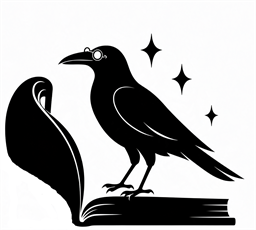
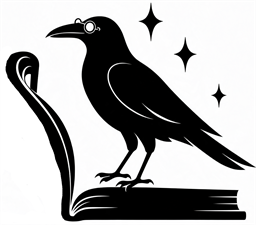
feat: 更换书架按钮为乌鸦看书图 + 底端对齐微调

Changed region(s): [[0.0, 0.0, 1.0, 0.9956]]

diff --git a/styles.css b/styles.css
@@ -6824,10 +6824,10 @@ body.theme-light .notice:not(.pw-self-styled) a {
 .nyahome-reader-trigger {
 	position: absolute;
 	left: calc(100% + 12px);
-	bottom: 0;
+	bottom: -0.05em;
 	font-size: inherit;
 	height: 1.6em;
-	width: 1.78em;
+	width: 1.82em;
 	display: grid;
 	place-items: center;
 	overflow: hidden;
